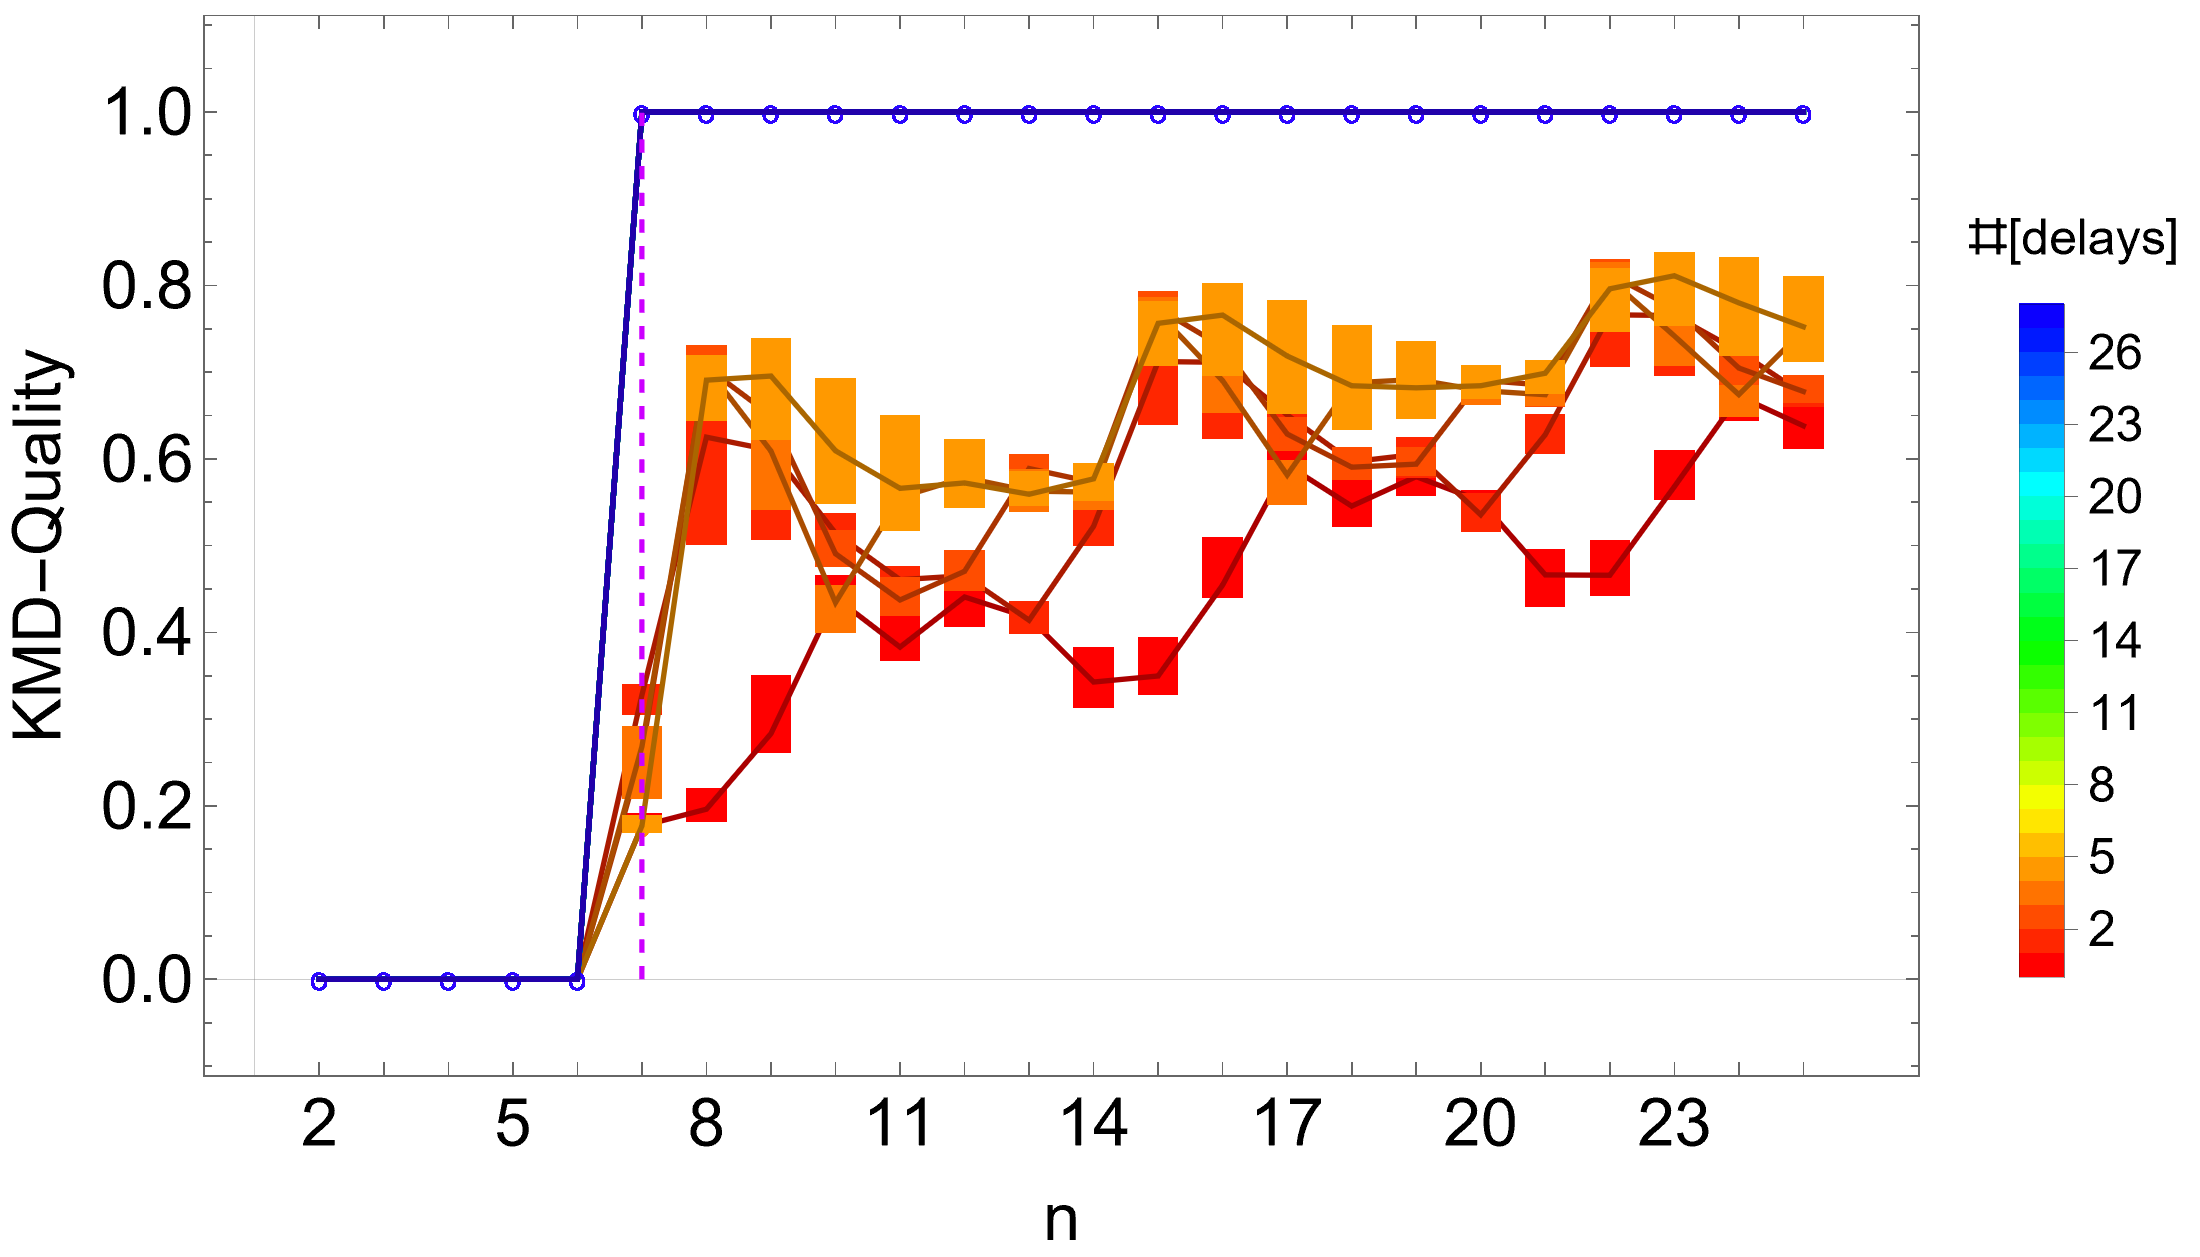
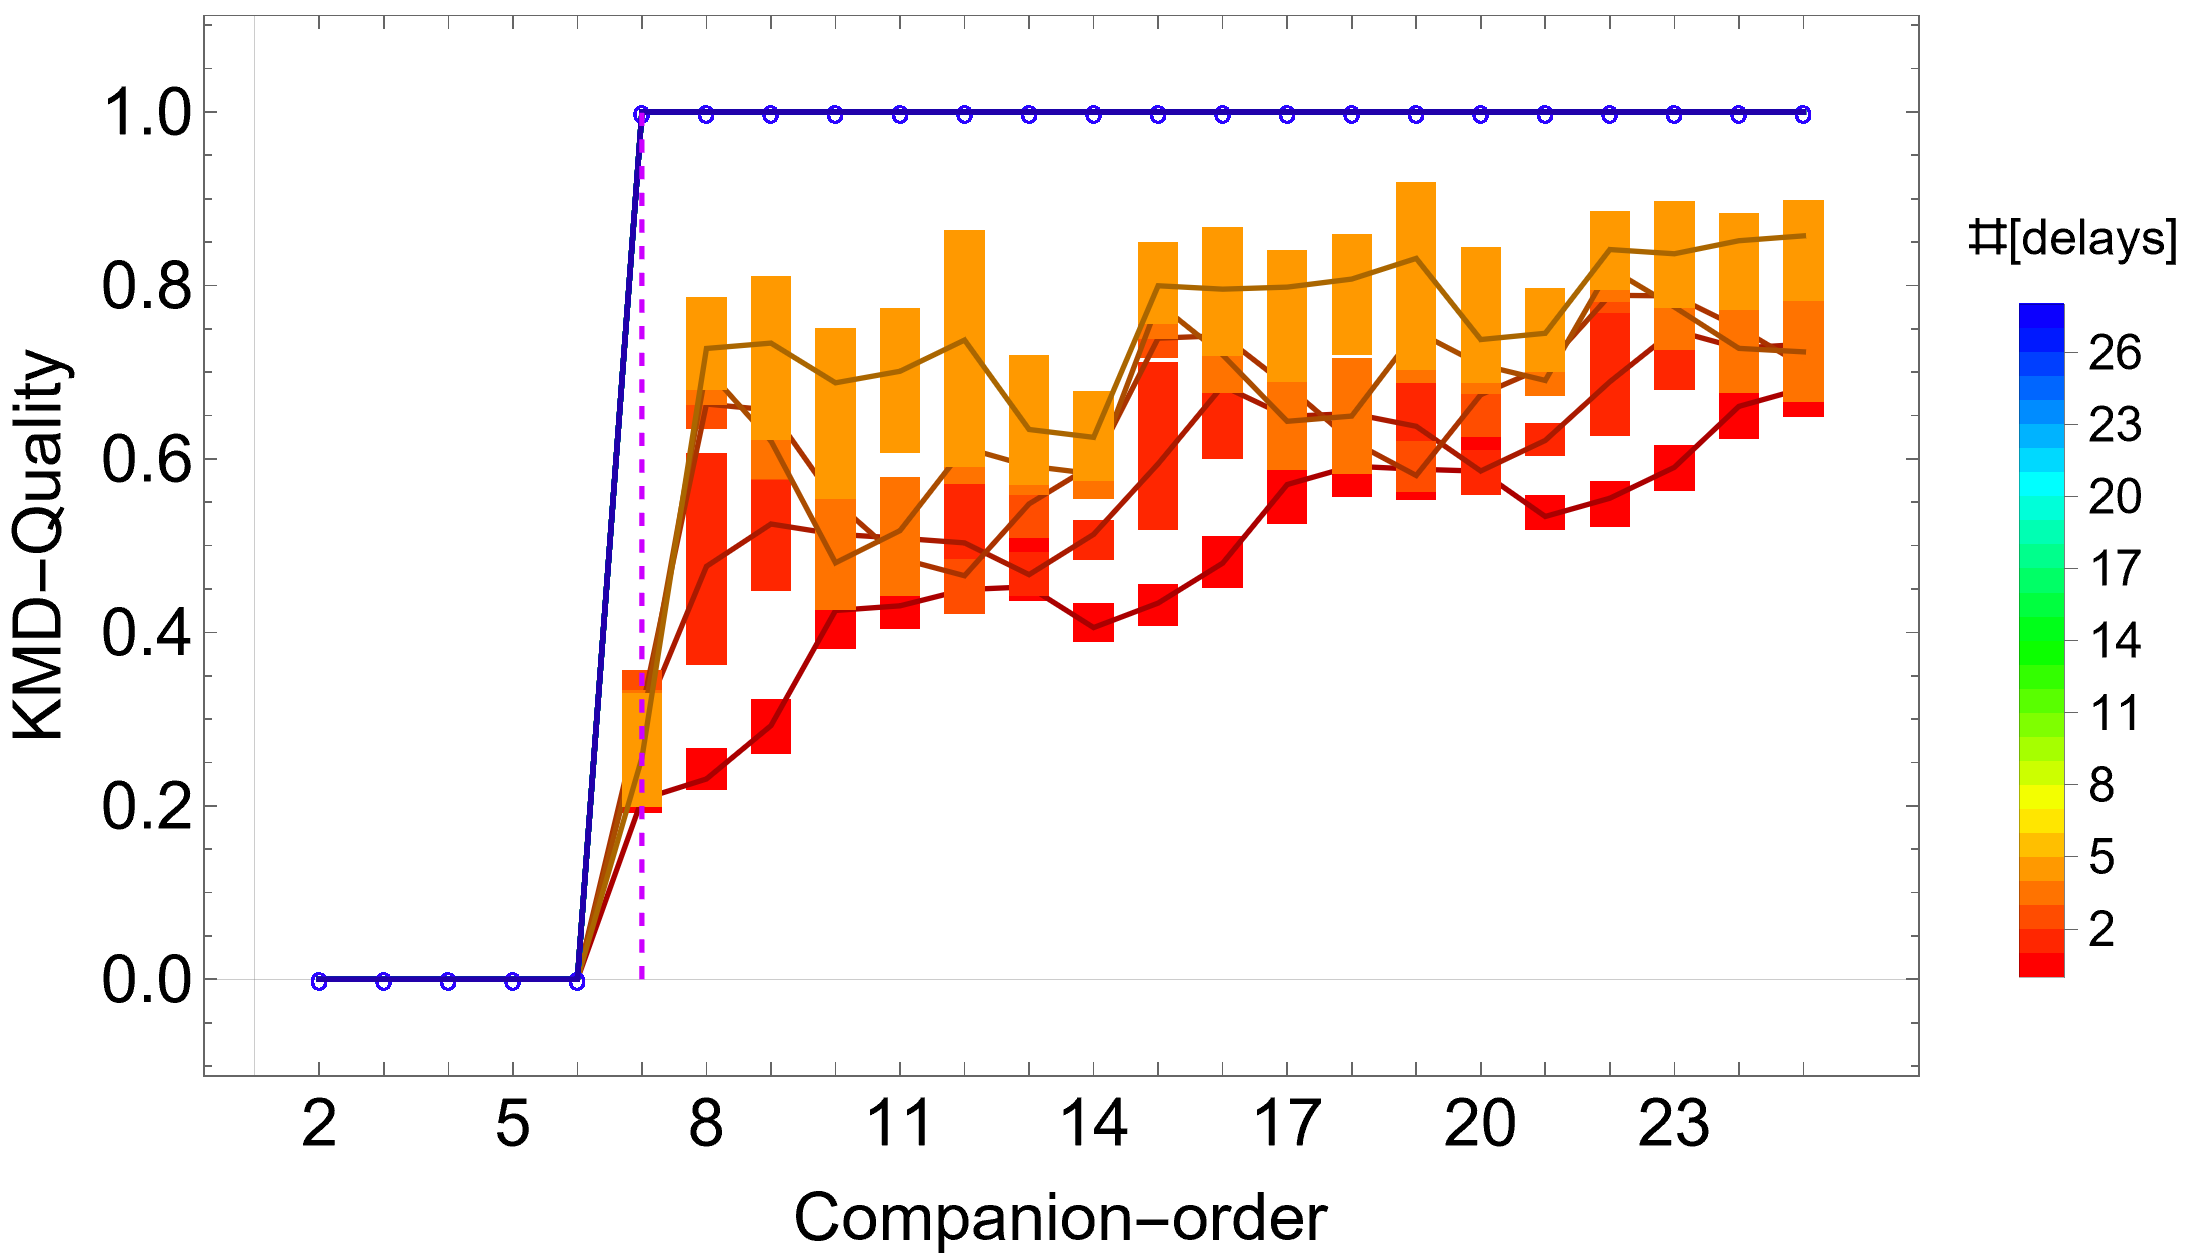
Improving interpretability with constant spectral targets
- Constant target for numchks
- Companion order on X axis
- Removed spectral estimation from lti.m, partly due to a sequential
dependence within getetvdepwrtcdeg

Changed region(s): [[0.2473, 0.1241, 0.8345, 0.7446], [0.3709, 0.9618, 0.6182, 0.9928], [0.34, 0.5274, 0.3709, 0.5895]]

diff --git a/examples/lti.m b/examples/lti.m
@@ -46,7 +46,7 @@ crunchgrub[lticase] = "3";
 (*Temporal parameters*)
 
 
-(* ::Subsection::Closed:: *)
+(* ::Subsection:: *)
 (*Define the scope of study*)
 
 
@@ -58,7 +58,7 @@ crunchgrub[lticase] = "3";
 (*DMD model order (n) : minn \[LongRightArrow] maxn*)
 
 
-AssociateTo[plotgrub,{testdelays -> Range[0,28](*{6,25,50,100,200,400}*), testdegs-> Range[2,25]}];
+AssociateTo[plotgrub,{testdelays -> (*Join[{0,3,5,6},{13,20,27}]*)Range[0,28], testdegs-> Range[2,25]}];
 
 
 (* ::Subsubsection::Closed:: *)
@@ -99,7 +99,7 @@ crunchgrub[maxdelays] = Max@ crunchgrub[testdelays];
 
 
 (* ::Input:: *)
-(*plotgrub[casestrings] = {"vanilla","ms","mspres","msdel"};*)
+(*plotgrub[casestrings] = {"vanilla","ms","truesansrate","truewithrate"};*)
 
 
 (* ::Input:: *)
@@ -236,7 +236,7 @@ generatingAmat = eval2amat[contevals];
 (*Others: {}*)
 
 
-AssociateTo[liftgrub,{rate2sub -> 1,nfunda-> (* Case 2 always *) 2*trajgrub[maxn] (* Impute the number you've rigged the system to have *)(*6*)(* 13*)}];
+AssociateTo[liftgrub,{rate2sub -> 1,nfunda-> 2*trajgrub[maxn](* Irrelevant at this point: Just a dummy variable until there is time for a cleanup*)}];
 AssociateTo[liftgrub,truevals-> trajgrub[discevals](* {} if you don't know what it should be, in which case we don't know what mean subtraction does *)]; 
 
 
@@ -332,7 +332,7 @@ trajgrub[covmat]= trajgrub[noiseSD]^2*IdentityMatrix[liftgrub[crows]];
 (**)
 
 
-(* ::Subsection::Closed:: *)
+(* ::Subsection:: *)
 (*#[realizations] to analyse*)
 
 
@@ -394,7 +394,7 @@ basicolourlist = Array[Hue[#]&,Length@crunchgrub[testdelays],{0,0.7 (* The end o
 
 
 (* ::Input:: *)
-(*Get[crunchgrub[savefile]];*)
+(*(*Get[crunchgrub[savefile]];*)*)
 
 
 (* ::PageBreak:: *)
@@ -478,69 +478,6 @@ basicolourlist = Array[Hue[#]&,Length@crunchgrub[testdelays],{0,0.7 (* The end o
 (*stdBWplot[crunchgrub[testdegs],splog10@ensemblechoppeddat,basicolourlist,delayscolored,HoldForm[n],HoldForm[Subscript[Log, 10][Subscript[\[Sigma], Tail]]],{-17,1},Hue[0.8]]*)
 
 
-(* ::Section:: *)
-(*Eigenvalues from multiple time traces : Algorithm 6.1*)
-
-
-(* ::Subsection:: *)
-(*Determining rmin*)
-
-
-(* ::Subsubsection:: *)
-(*Log10[How well is the y-th estimate contained in the x-th estimate] *)
-
-
-(* ::Input:: *)
-(*howtochooseyourrplot =getetvdepwrtcdeg[vals,crunchgrub]*)
-
-
-(* ::Input:: *)
-(*savetheseplots[{howtochooseyourrplot},nametheseplots[#,{"rpyramid"}]&,"png"];*)
-
-
-(* ::Subsection:: *)
-(*Choose  rmin from the earlier diagnostics*)
-
-
-(* ::Item:: *)
-(*Highest y-coordinate, within \hat{r}_{min}: \hat{r}_{max}, with a row of low values*)
-
-
-(* ::Input:: *)
-(*AssociateTo[crunchgrub,{rmin-> Input["Please enter your guess of rmin ('hat{r}')"](* 7*),chosendeg->  Input["Please enter hat{n} to sample hat{r} from "]}];*)
-
-
-(* ::Subsubsection:: *)
-(*Pick data with sufficient delays and extract their common eigenvalues*)
-
-
-(* ::Input:: *)
-(*AssociateTo[crunchgrub,{delaymin-> crunchgrub[chosendeg]-1}];*)
-(*valswithgoodelays=keepthemgoodelays[onlythequads[vals],crunchgrub];*)
-
-
-(* ::Input:: *)
-(*{prunedrootqfs,estruevals}=sneakyestimatetruevals[valswithgoodelays,crunchgrub,"verbose"];*)
-(*Clear[valswithgoodelays];*)
-
-
-(* ::Subsubsection:: *)
-(*Hausdorff distance between estimated and true eigenvalues*)
-
-
-(* ::Input:: *)
-(*hausdorffdist[estruevals (* Estimated *),trajgrub[discevals] (* True eigenvalues *)]*)
-
-
-(* ::Subsubsection:: *)
-(*Minutia*)
-
-
-(* ::Input:: *)
-(*oldvals = vals;*)
-(*ncases=4;*)
-
-
 (* ::Subsubsection:: *)
 (*Generate coordinates for heatmaps*)
 
@@ -575,29 +512,6 @@ basicolourlist = Array[Hue[#]&,Length@crunchgrub[testdelays],{0,0.7 (* The end o
 
 
 (* ::Subsection:: *)
-(*Estimated eigenvalues: \!\(\*OverscriptBox[\(\[Nu]\), \(^\)]\)*)
-
-
-(* ::Input:: *)
-(*liftgrub[truevals] = estruevals;*)
-(*(* We want the vertical line at the spot where we hit the number of eigenvalues used as the truth in the current analysis *)*)
-(*findnprojsintestdegs = (Flatten[Position[crunchgrub[testdegs],Length[liftgrub[truevals]]]])[[1]];*)
-(**)
-(*vals = ParallelMap[*)
-(*ms1shot4trajvariations[trajgrub, liftgrub, crunchgrub, #] &, *)
-(*{listotseries, listopnoise, oldvals}\[Transpose]*)
-(*];*)
-
-
-(* ::Input:: *)
-(*estimateplots = kmdplots[crunchgrub[testdegs],ratequads,kmdQuality,vals,"KMD-Quality",basicolourlist,delayscolored]*)
-
-
-(* ::Input:: *)
-(*savetheseplots[estimateplots,nametheseplots[#,prefixstrlist["estimatevals_",plotgrub[casestrings]]]&,"png"];*)
-
-
-(* ::Subsection:: *)
 (*True eigenvalues: \sigma(\[CapitalLambda])*)
 
 
@@ -606,14 +520,14 @@ basicolourlist = Array[Hue[#]&,Length@crunchgrub[testdelays],{0,0.7 (* The end o
 (*(* Updating the vertical line for a different set of target eigenvalues *)*)
 (*findnprojsintestdegs = (Flatten[Position[crunchgrub[testdegs],Length[liftgrub[truevals]]]])[[1]];*)
 (**)
-(*valshonest =ParallelMap[*)
+(*vals =ParallelMap[*)
 (*ms1shot4trajvariations[trajgrub, liftgrub, crunchgrub, #] &, *)
-(*{listotseries, listopnoise, oldvals}\[Transpose]*)
+(*{listotseries, listopnoise, vals}\[Transpose]*)
 (*];*)
 
 
 (* ::Input:: *)
-(*truthplots = kmdplots[crunchgrub[testdegs],ratequads,kmdQuality,valshonest,"KMD-Quality",basicolourlist,delayscolored]*)
+(*truthplots = kmdplots[crunchgrub[testdegs],ratequads,kmdQuality,vals,"KMD-Quality",basicolourlist,delayscolored]*)
 
 
 (* ::Input:: *)
@@ -625,7 +539,7 @@ basicolourlist = Array[Hue[#]&,Length@crunchgrub[testdelays],{0,0.7 (* The end o
 
 
 (* ::Input:: *)
-(*DumpSave[crunchgrub[savefile],{oldvals,vals,valshonest,crunchgrub,trajgrub,liftgrub,basicolourlist,listoICs,plotgrub,simsteps,crunchcoords,ncases}];*)
+(*DumpSave[crunchgrub[savefile],{vals,crunchgrub,trajgrub,liftgrub,basicolourlist,listoICs,plotgrub,simsteps,crunchcoords}];*)
 
 
 (* ::PageBreak:: *)

diff --git a/src/function_forge.m b/src/function_forge.m
@@ -1,3 +1,5 @@
+(* ::Package:: *)
+
 (*
  Wolfram Language scrapbook file.
 
@@ -43,17 +45,30 @@ MapThread[getcstar[#1,\[Lambda],sigtols,restols,#2,#3,crows,ndelays]&,datapartsf
 ];
 
 prep4cases[data_, \[Lambda]_, truevals_, sigtols_, restols_, nfunda_, ndelays_, deg_, meff_, noisyQ_] :=
-    Module[ {zmat, zlambdams, zlambdamsdel, n, evalparts, flavours, dataorgs},
+    Module[ {zmat, zlambdams, zlambdamsdel, n, evalparts, flavours, dataorgs,m,msdelgrub,msdelgrubsansmean},
+    	(*Model parameters *)
         n = deg;
+        (* True length of observables*)
+        m = Length[data[[1]]]/(ndelays + 1);
+        (*Actual data matrices to be parsed*)
         zmat = Take[Transpose[data[[1]]], -(n + 1)] // Transpose;
         zlambdams = getmusubeddatamat[zmat, \[Lambda]];
-        zlambdamsdel = 
-         Join @@ Map[#[zlambdams\[Transpose]]\[Transpose] &, {Most, Rest}];
-        evalparts = 
-         getevalpartitions[truevals, nfunda, n, \[Lambda], restols];
-        flavours = {"vanilla", "ms", "mspres", "msdelay"};
+        (* Need to remove the mean, and then take time delays *)
+        (* Pick out the time series as it was before the delays, of appropriate length *)
+        msdelgrub = Take[Transpose[ data[[1,Range[m],All]] ], -(n+1+ndelays)]//Transpose;
+        (* Remove temporal mean *)
+        msdelgrubsansmean = getmusubeddatamat[msdelgrub, \[Lambda]];
+        (* Do delays *)
+        zlambdamsdel = tseries2bigdatamat[(msdelgrubsansmean)\[Transpose], ndelays - 1];
+        evalparts = getevalpartitions[truevals, nfunda, n, \[Lambda], restols];
+        (* Update the eigenvalue target, since the mean was using a matrix of length n+ndelays+1 *)
+        (* True without rate always *)
+        evalparts[[-2]] = (getevalpartitions[truevals, 0, n+ndelays, \[Lambda], restols])[[-1]];
+        (* True with rate always *)
+        evalparts[[-1]] = (getevalpartitions[truevals, n+ndelays+1, n+ndelays, \[Lambda], restols])[[-1]];
+        flavours = {"vanilla", "ms", "msdelay", "msdelay"};
         dataorgs = {zmat (*Usual*), zlambdams (*Mean subtracted*), 
-          zlambdams (*Remove mean-Preserve \[Lambda]*), 
+          zlambdamsdel (*Remove mean-Preserve \[Lambda]*), 
           zlambdamsdel(*Remove mean,then delay*)};
         {dataorgs, evalparts, flavours}
     ] /; (! noisyQ)
@@ -134,7 +149,7 @@ cmat = If[cmatseed == {}(* If unspecified, create using getrandmat *),
 
 
 (* Create the ICs*)
-tseries = rawics.Transpose[cmat] ;
+tseries = rawics . Transpose[cmat] ;
 
 
 
@@ -301,7 +316,7 @@ kmdplots[allXlabels_, key_, fun_, vals_, funname_, colourlist_(**),
           4 <-> 1
           ];
       plots = 
-        Map[stdBWplot[allXlabels, #, colourlist , colorlegend, "n", 
+        Map[stdBWplot[allXlabels, #, colourlist , colorlegend, "Companion-order", 
               funname, vertbounds, vertcolour] &, funnyvals];
       plots
       ]; 

diff --git a/examples/noisy_lti.m b/examples/noisy_lti.m
@@ -78,7 +78,7 @@ ltistring = "3";
 (*DMD model order (n) : minn \[LongRightArrow] maxn*)
 
 
-AssociateTo[plotgrub,{testdelays -> {0,3,6,25,50,100,200,400}(*Range[0,28]*)(*Range[6,25]*)(*Join[Range[0,60],{70,80,90,100,200,400}]*), testdegs-> Range[2,25]}];
+AssociateTo[plotgrub,{testdelays -> {0,3,6,25,50,100,200,400}(*Join[{0,3},Range[6,50,2],{100,200,400}]*)(*Join[Range[0,60],{70,80,90,100,200,400}]*), testdegs-> Range[2,25]}];
 
 
 (* ::Subsubsection::Closed:: *)
@@ -481,7 +481,7 @@ tplots
 
 
 (* ::Input:: *)
-(*nicedelayplot = Block[{keep = {1,2,3,4},delayindex =-1,localplot,plotgivename},localplot =stdBWplot[crunchgrub[testdegs],kmdQuals[[keep,delayindex]],algocolours[[keep]],algoscoloured, "n","KMD-Quality",{0,1},Hue[0.8],{{0.98,0.06},{1,0}}];*)
+(*nicedelayplot = Block[{keep = {1,2,3,4},delayindex =-1,localplot,plotgivename},localplot =stdBWplot[crunchgrub[testdegs],kmdQuals[[keep,delayindex]],algocolours[[keep]],algoscoloured, "Companion-order","KMD-Quality",{0,1},Hue[0.8],{{0.98,0.06},{1,0}}];*)
 (*plotgivename = StringJoin["KMDQuality_",ToString[(crunchgrub[testdelays])[[delayindex]]],"_delays"];*)
 (*savetheseplots[{localplot},nametheseplots[#,{plotgivename}]&,"png"];*)
 (*localplot*)

diff --git a/src/msub_untested.m b/src/msub_untested.m
@@ -50,6 +50,7 @@ onlythequads[vals_] := vals[[All,(* Lose the other Keys as they may not ahve as 
 (* ::Subitem:: *)
 (*Will then need to UpperTriangularize, as we are interested in the smaller being contained in the larger set*)
 
+(* Appears to have a bug when the delays are not sequential...*)
 
 getetvdepwrtcdeg[vals_, cgrubin_] := Module[{cgrub = cgrubin, localetvs, pairdts, plotcoords, zcoords, locvals},
 	(*Common eigenvalues,over ICs and permitted delays,at varying choices of n*)
